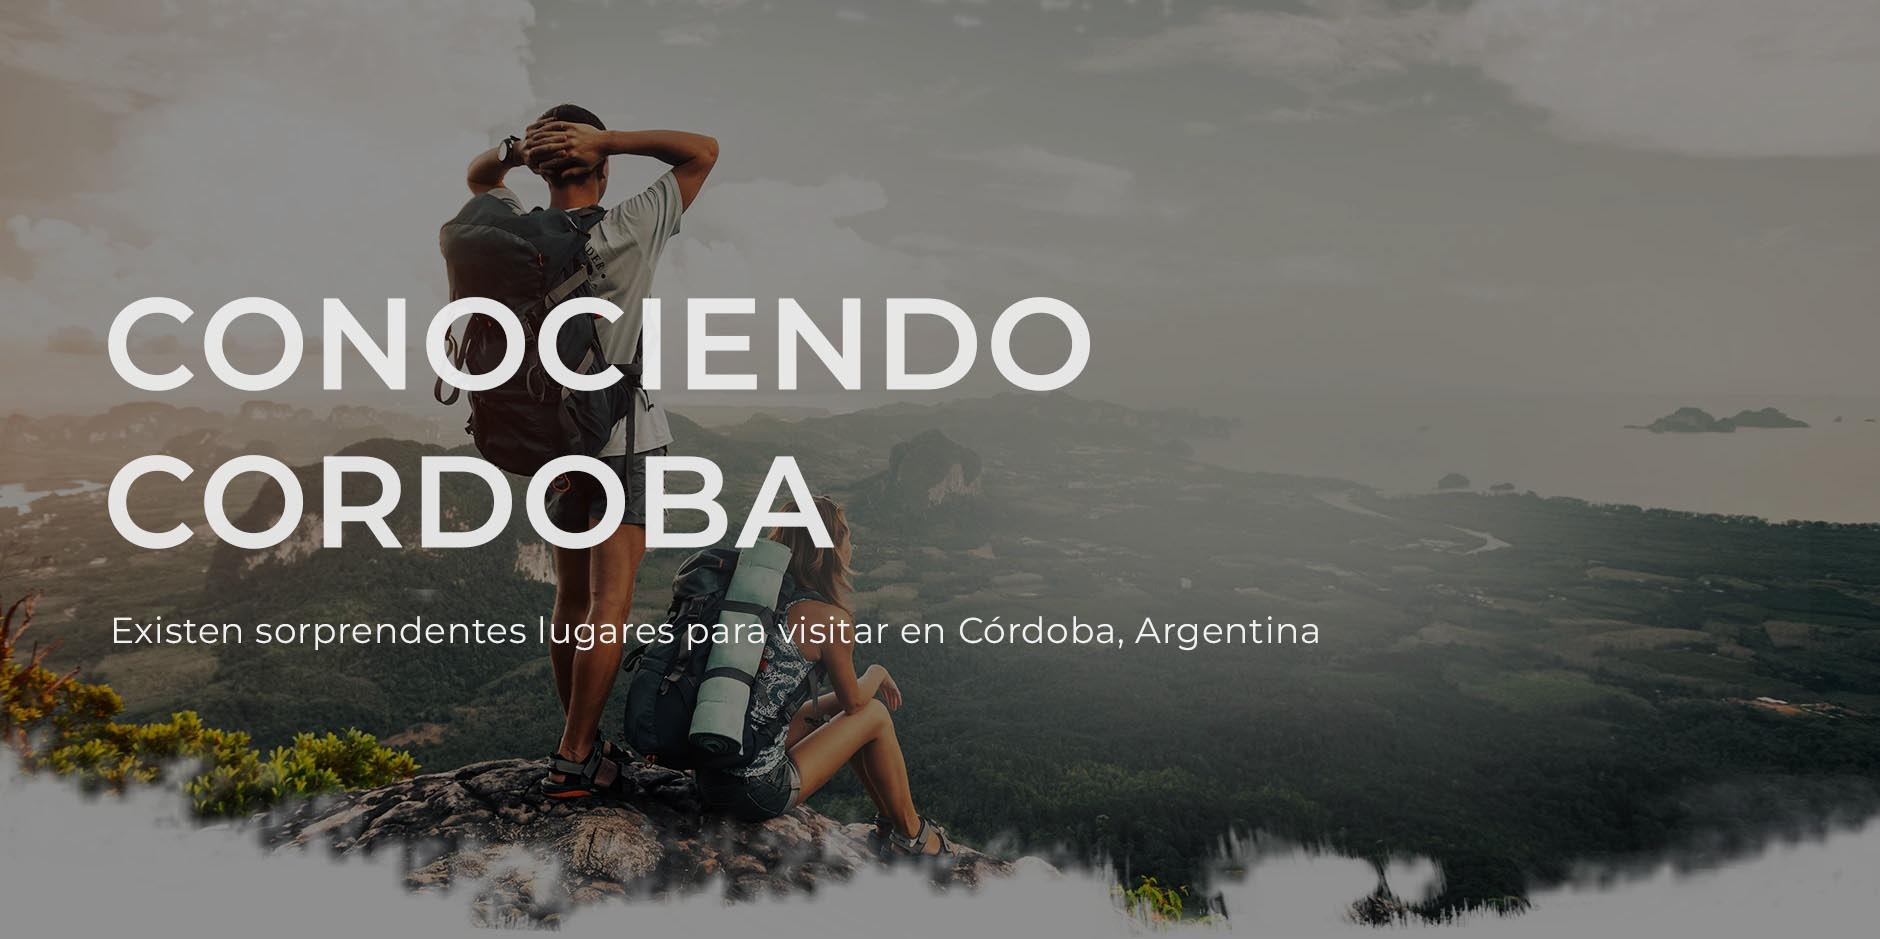
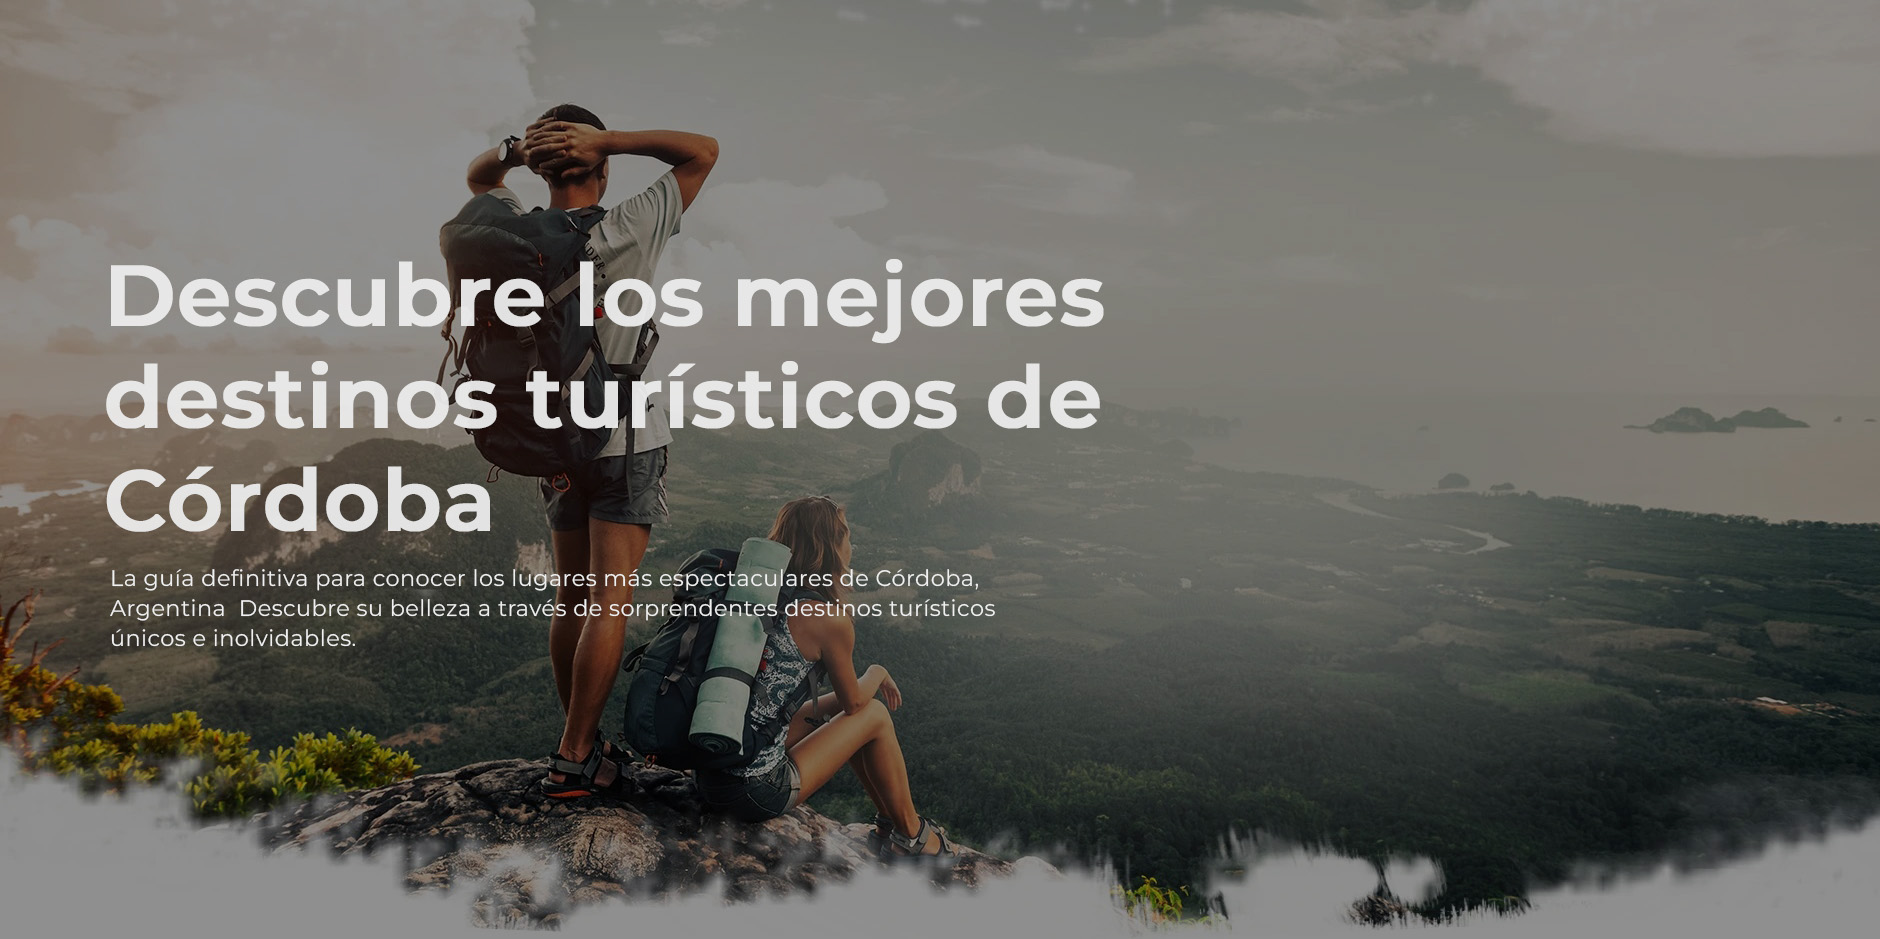
Modifiqué información y estilos

Changed region(s): [[0.0309, 0.278, 0.7096, 0.7103]]

diff --git a/css/styles.css b/css/styles.css
@@ -4,6 +4,7 @@ GLOBAL
 
 :root {
   --color-1: #3448c5;
+  --color-2: #c99cd6;
   --white: #F0F0F0;
   --black: #111111;
 }
@@ -174,14 +175,14 @@ nav {
 }
 
 .logo {
-  font-size: 3rem;
+  font-size: 2.5rem;
   color: var(--white);
   font-weight: bolder;
 }
 
 .logo i {
   color: var(--white);
-  font-size: 2.7rem;
+  font-size: 2.2rem;
 }
 
 /*=============================== 
@@ -209,11 +210,11 @@ HOME
 }
 
 .home h1 {
-  font-size: 8rem;
+  font-size: 6rem;
   letter-spacing: 1px;
-  line-height: 1.3;
+  line-height: 1.1em;
   color: var(--white);
-  text-transform: uppercase;
+  width: 60%;
   animation: show;
   animation-duration: 1s;
   animation-fill-mode: backwards;
@@ -223,7 +224,9 @@ HOME
 .home p {
   font-size: 2rem;
   color: var(--white);
+  opacity: .85;
   line-height: 1.5;
+  width: 60%;
   animation: show;
   animation-duration: 1s;
   animation-fill-mode: backwards;
@@ -701,6 +704,11 @@ RESPONSIVE
 
   .home h1 {
     font-size: 6rem;
+    width: 80%;
+  }
+
+  .home p {
+    width: 80%;
   }
 
   .places .images {
@@ -733,10 +741,21 @@ RESPONSIVE
 
   .home h1 {
     font-size: 4rem;
+    width: 100%;
+  }
+
+  .home p {
+    width: 100%;
+    font-size: 1.8rem;
+  }
+
+  .empezar .container p {
+    font-size: 1.6rem;
   }
 
   .info p {
     width: 100%;
+    font-size: 1.6rem;
   }
 
   .places .images {
@@ -757,6 +776,10 @@ RESPONSIVE
 
   .gallery {
     grid-template-columns: repeat(1, 1fr);
+  }
+
+  .btn-back {
+    font-size: 1.8rem;
   }
 }
 

diff --git a/index.html b/index.html
@@ -76,8 +76,9 @@
     <!--====== HOME ======-->
     <section class="home" id="home">
       <div class="container">
-        <h1>Conociendo <br> Córdoba</h1>
-        <p>Existen sorprendentes lugares para visitar en Córdoba, Argentina</p>
+        <h1>Descubre los mejores destinos turísticos de Córdoba</h1>
+        <p>La guía definitiva para conocer los lugares más espectaculares de Córdoba, Argentina. Descubre su belleza a
+          través de sorprendentes destinos turísticos únicos e inolvidables.</p>
       </div>
     </section>
 
@@ -1633,7 +1634,7 @@
     <section class="contact section">
       <div class="container">
         <h2>¿Tienes alguna sugerencia?</h2>
-        
+
         <form class="form" id="form" autocomplete="off">
           <div class="container-input">
             <label class="label-input" for="input-name">Nombre</label>
